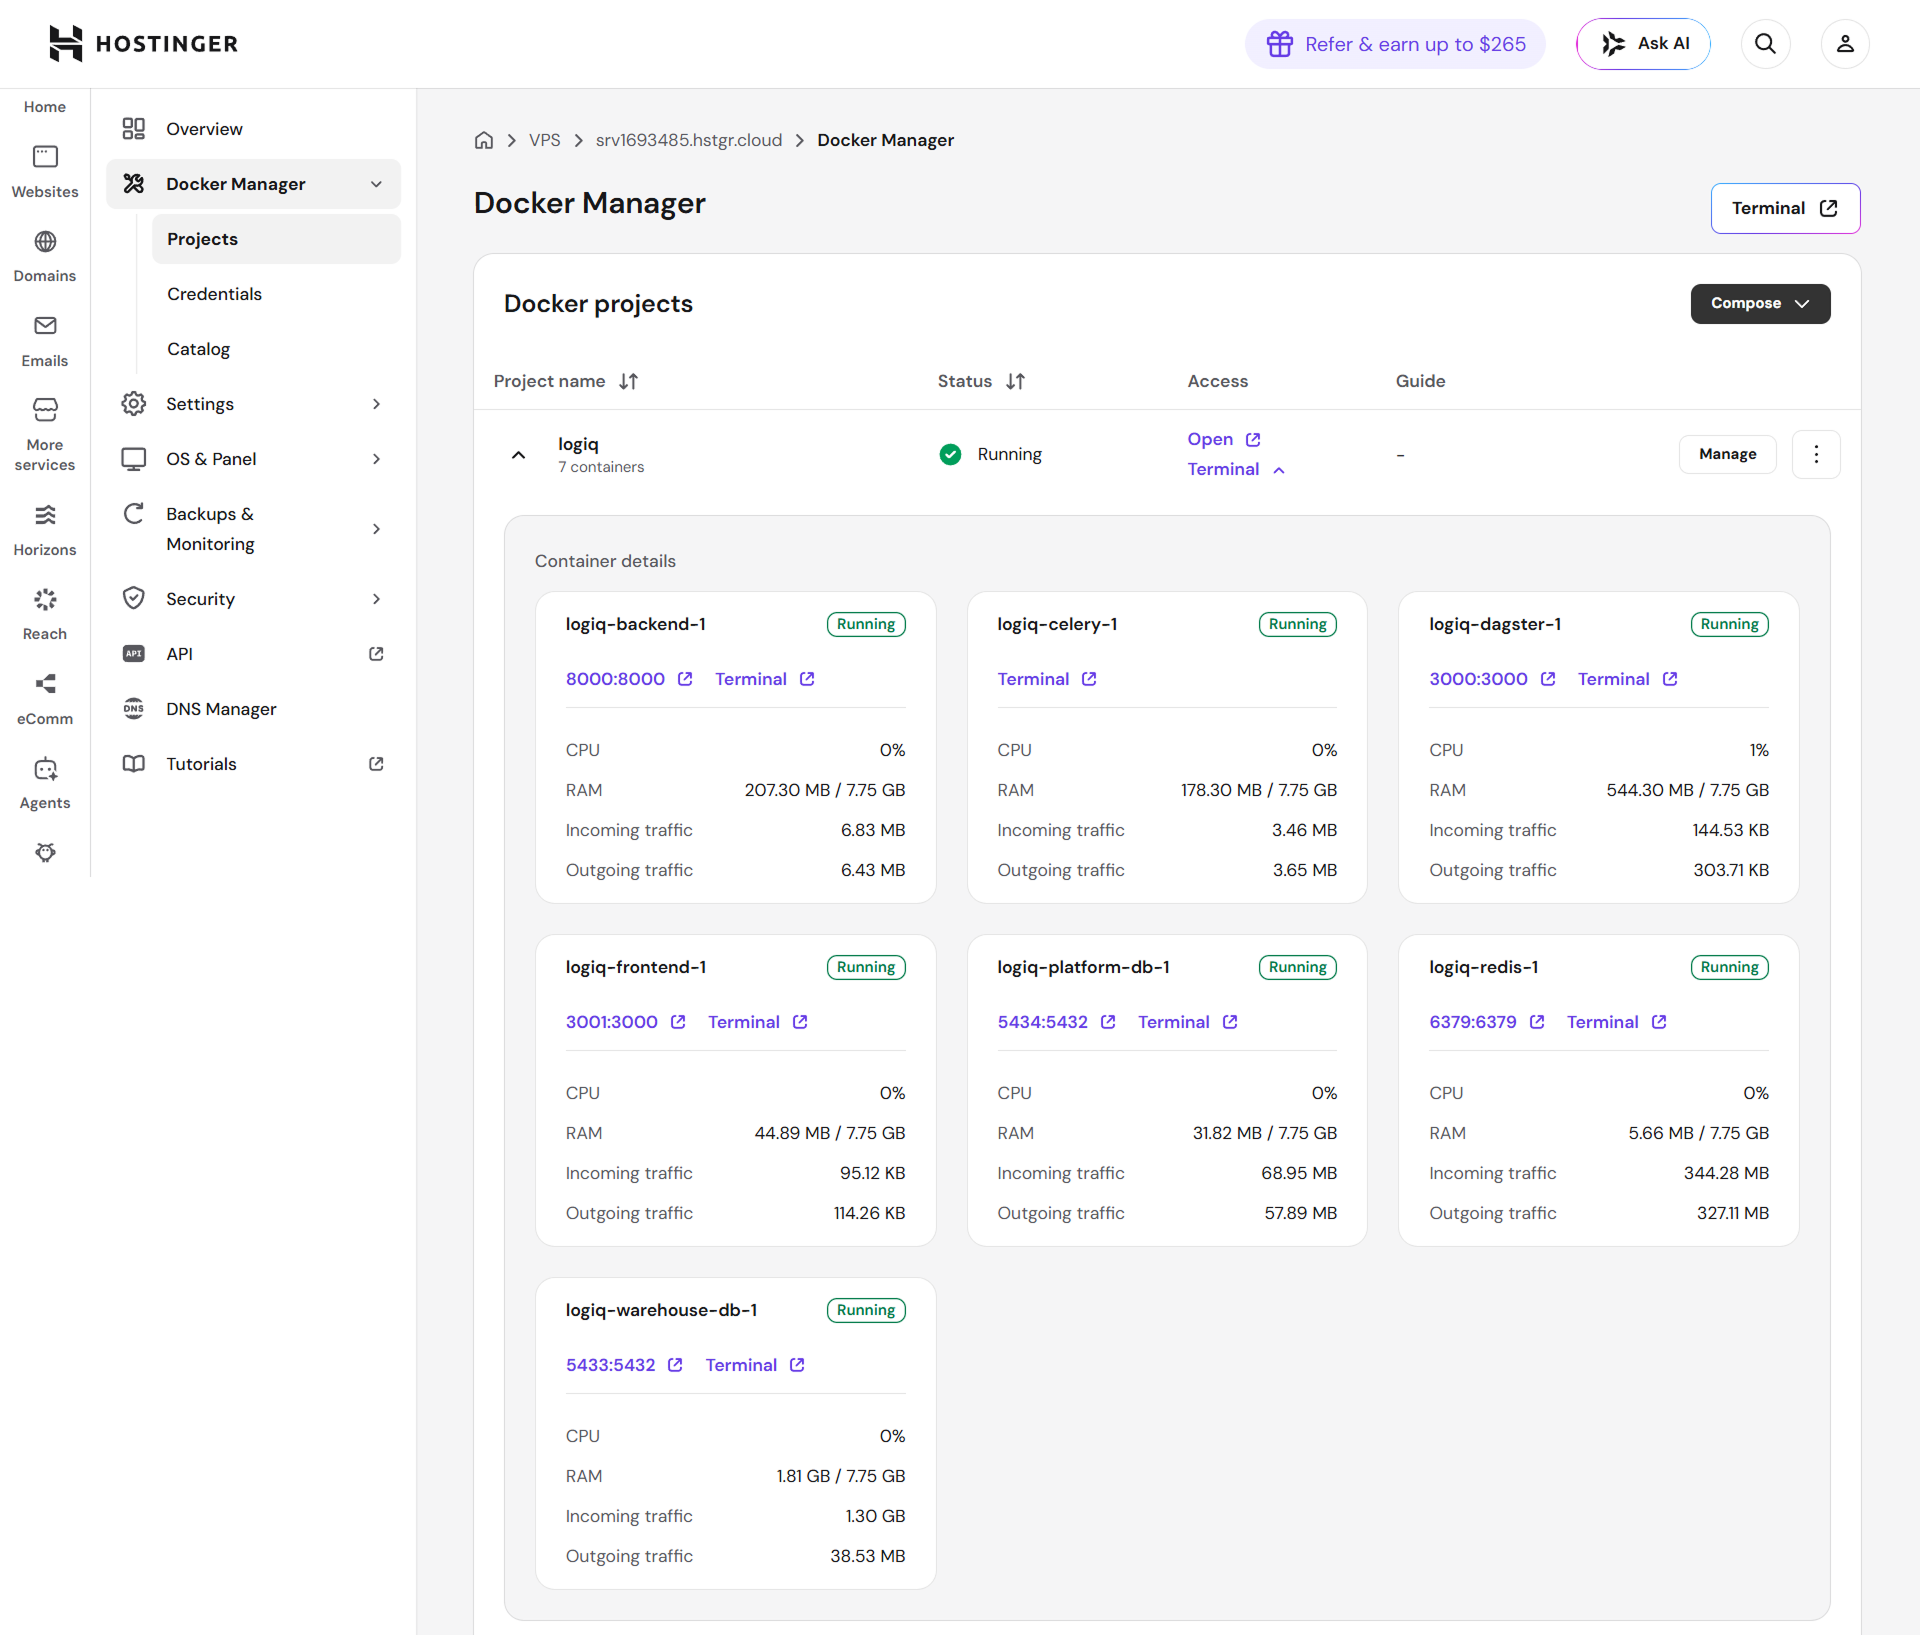
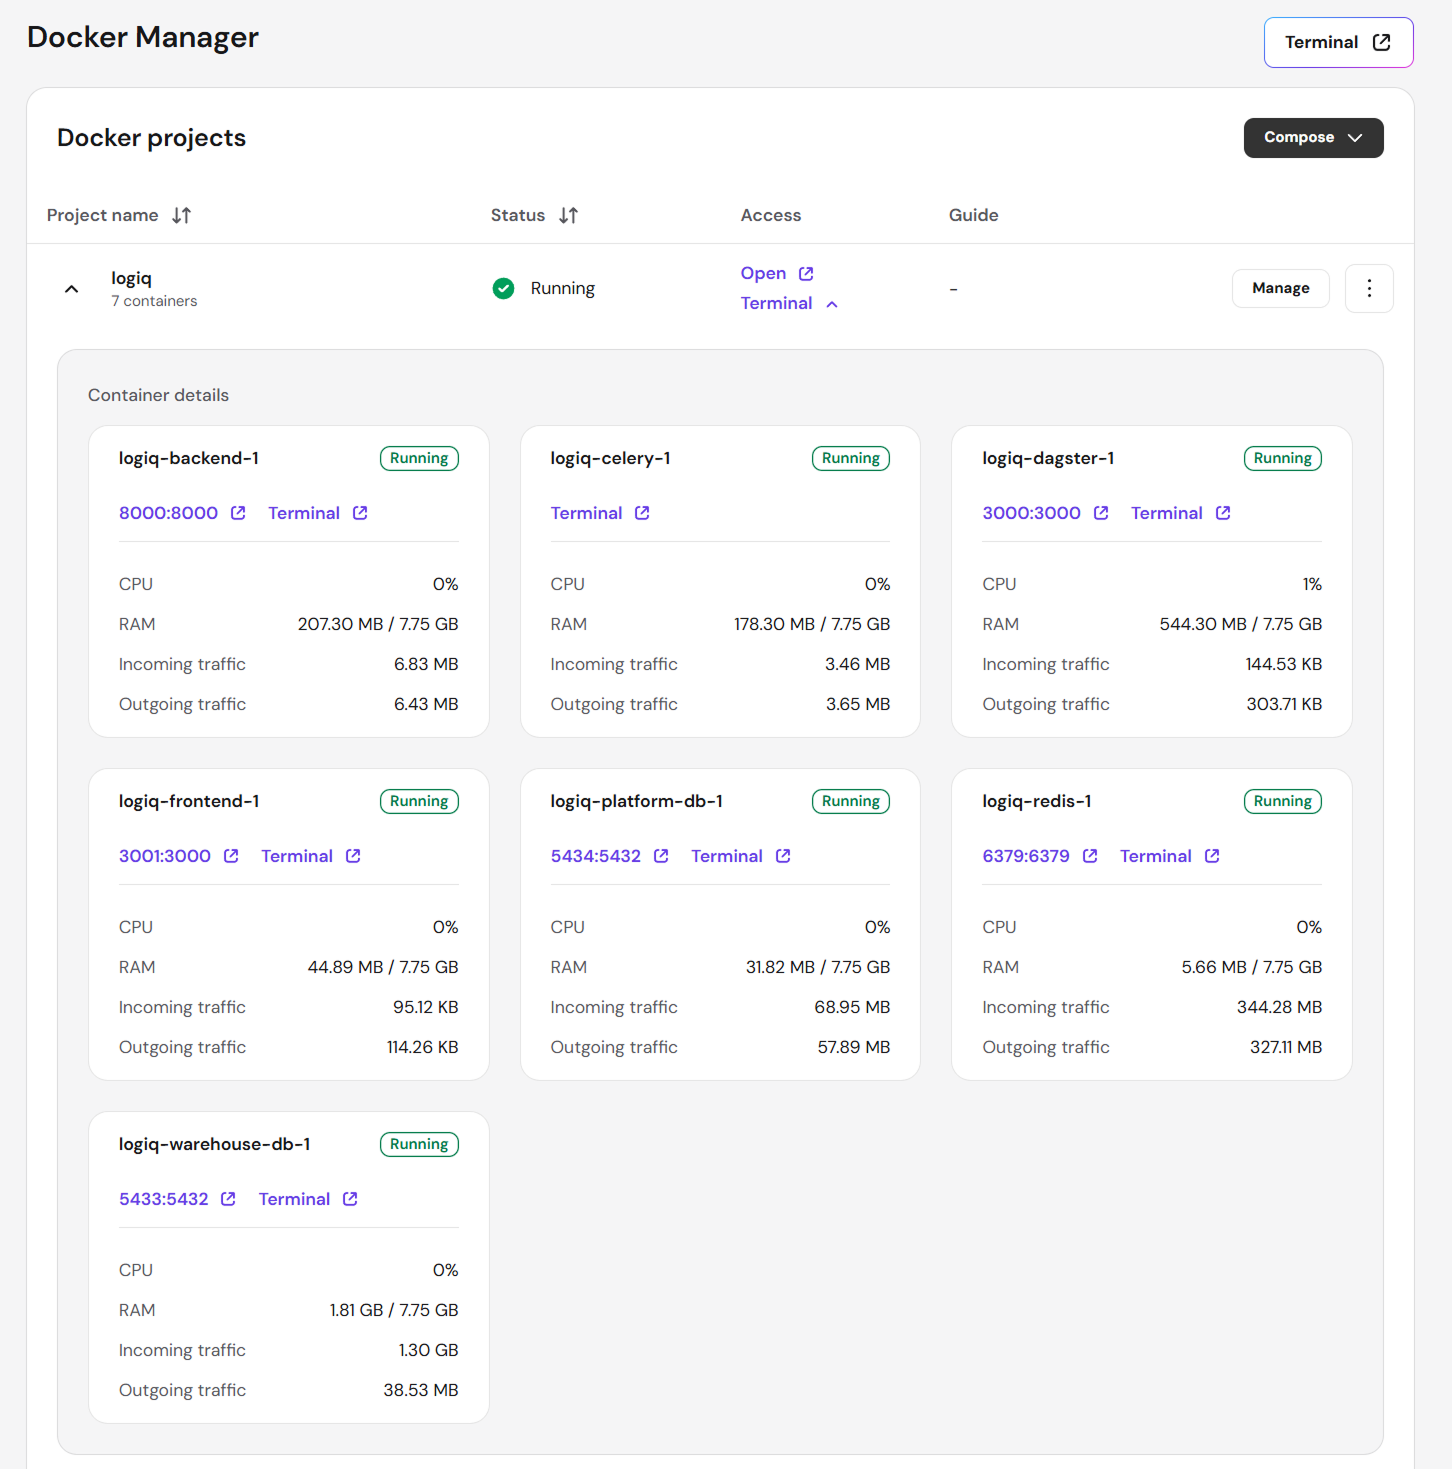
Update Chapter 5 with Hostinger deployment details and add new figures

diff --git a/mainmatter/part2/chapter5/chapter5.tex b/mainmatter/part2/chapter5/chapter5.tex
@@ -800,31 +800,81 @@ network. Database and pipeline state live on named volumes (not shown).}
 \subsection{Containerisation and Persistence}
 
 The stack is described by a single \textbf{Docker Compose} orchestration definition that declares every
-container, its configuration, and how the containers are wired together --- so the platform can be
-started, stopped, or rebuilt as one unit. State that must outlive a rebuild --- the two databases and
-the pipeline-run history --- is held on \textbf{named volumes}, so redeploying the application never
-loses data.
+container --- the two databases, Redis, the backend, the Celery worker, the Dagster orchestrator, and the
+frontend --- their configuration, and how they are wired together, so the platform can be started,
+stopped, or rebuilt as one unit. The simulated source systems of Chapter~6 run as a \emph{separate}
+Compose stack on the same shared network. State that must outlive a rebuild --- the two databases and the
+Dagster run history --- is held on \textbf{named volumes}, so redeploying never loses data.
 
 % -----------------------------------------------------------------------------
 \subsection{Reverse Proxy, TLS, and Network Isolation}
 
-An \textbf{Nginx} reverse proxy fronts the stack: it routes public sub-domains to the appropriate
-internal container and terminates \textbf{HTTPS}, with certificates issued and \emph{automatically
-renewed} by \textbf{Let's Encrypt}. The security posture is deliberately tight --- \emph{only} the
-proxy's web port is exposed to the outside, while every other container (databases, ETL, worker, and
-even the application servers) sits on a \textbf{private internal network}, unreachable directly from the
-internet. This realises the encrypted-transport and isolation requirements of \S\ref{sec:ch4-security}
-(TS11).
+An \textbf{Nginx} reverse proxy fronts the stack: it routes each public sub-domain to the appropriate
+internal container and terminates \textbf{HTTPS}, with a single multi-domain certificate issued and
+\emph{automatically renewed} by \textbf{Let's Encrypt}. It also carries the long-lived event stream that
+delivers \textbf{real-time notifications} to the interface (\S\ref{sec:ch5-alerting}). The security
+posture is deliberately tight: a host firewall leaves \emph{only} the web ports (80/443) open, and every
+other container --- the two databases, Redis, the ETL orchestrator, the worker, and even the application
+servers --- sits on a \textbf{private internal Docker network}, unreachable directly from the internet.
+This realises the encrypted-transport and isolation requirements of \S\ref{sec:ch4-security} (TS11).
 
 % -----------------------------------------------------------------------------
-\subsection{Topology and Automation}
+\subsection{Hosting Environment}
 
-The complete stack is designed to run on a \textbf{single modest virtual private server} ---
-demonstrating that a full Business Intelligence platform can be delivered cost-effectively, without a
-fleet of machines (TS19). Once deployed, it runs \textbf{without routine manual intervention}: the ETL
-executes on its schedule (\S\ref{sec:ch5-data}), the TLS certificates renew themselves, and the
-containers restart automatically on failure or reboot. The platform therefore not only \emph{works} but
-keeps working, which is what makes it a deliverable system rather than a prototype.
+For testing and demonstration the platform is hosted on a \textbf{single Hostinger VPS} --- a modest
+\emph{KVM~2} instance (2~vCPU, 8~GB RAM, 100~GB disk) running \textbf{Ubuntu~24.04 LTS} --- which alone
+runs the entire stack, confirming that a full Business Intelligence platform can be delivered
+cost-effectively, without a fleet of machines (TS19). It is served from the domain \texttt{logiq.space},
+with one sub-domain per externally reachable service (Table~\ref{tab:ch5-urls});
+Figure~\ref{fig:ch5-hostinger} shows the VPS and its running containers in the Hostinger console.
+
+\emph{This Hostinger deployment is temporary} --- it exists only to test and demonstrate the platform.
+The \textbf{production deployment will be provisioned, and costed, by the company}.
+
+% [VISUAL-IMPLEMENT] public service URLs
+\begin{table}[H]
+\centering
+\renewcommand{\arraystretch}{1.35}
+\rowcolors{2}{white}{tblrowalt}
+\begin{tabularx}{\linewidth}{|>{\raggedright\arraybackslash}p{5.2cm}|>{\raggedright\arraybackslash}X|}
+\hline
+\rowcolor{tblheader}
+\textcolor{white}{\textbf{Service}} & \textcolor{white}{\textbf{Public URL}} \\
+\hline
+Dashboard (frontend) & \texttt{https://logiq.space} \\
+Backend REST API & \texttt{https://api.logiq.space} \\
+ETL orchestrator (Dagster) & \texttt{https://dagster.logiq.space} \\
+Simulated sources (test only) & \texttt{https://mock.logiq.space} \\
+\hline
+\end{tabularx}
+\caption{The publicly reachable services and their sub-domains; every other container stays on the
+private internal network. The simulated-sources host belongs to the Chapter~6 test environment.}
+\label{tab:ch5-urls}
+\end{table}
+
+% [VISUAL-PLACEHOLDER] (provided) Hostinger console — VPS overview and container manager
+\begin{figure}[H]
+\centering
+\begin{subfigure}[t]{0.49\linewidth}
+  \centering\includegraphics[width=\linewidth]{hostinger_vps_overview}
+  \caption{VPS overview}
+\end{subfigure}\hfill
+\begin{subfigure}[t]{0.49\linewidth}
+  \centering\includegraphics[width=\linewidth]{hostinger_docker_manager}
+  \caption{Container manager}
+\end{subfigure}
+\caption{The deployment on a single Hostinger VPS: the server overview and the running containers, as
+seen in the Hostinger console.}
+\label{fig:ch5-hostinger}
+\end{figure}
+
+% -----------------------------------------------------------------------------
+\subsection{Automation}
+
+Once deployed, the platform runs \textbf{without routine manual intervention}: the ETL executes on its
+schedule (\S\ref{sec:ch5-data}), the TLS certificates renew themselves, and the containers restart
+automatically on failure or reboot. The platform therefore not only \emph{works} but keeps working,
+which is what makes it a deliverable system rather than a prototype.
 
 % ═════════════════════════════════════════════════════════════════════════════
 \section*{Conclusion}
@@ -833,11 +883,11 @@ keeps working, which is what makes it a deliverable system rather than a prototy
 This chapter turned the conceptual blueprint of Chapter~4 into a working system. Building on a stack of
 \textbf{open-source, free} components, it realised each design block in turn: a \textbf{warehouse} of
 four layers in PostgreSQL fed by a \textbf{Dagster} pipeline whose assets are the warehouse tables; a
-\textbf{backend} on Django and DRF that routes analytics to the warehouse and everything else to the
-operational store; a \textbf{Celery} alerting service that evaluates rules off the request path and fans
-notifications out to each user's chosen channels; a \textbf{Next.js} dashboard organised by the two axes
-and their three views; and a fully \textbf{containerised} deployment that runs the whole stack behind a
-reverse proxy on a single, modest server.
+\textbf{backend} on Django and DRF that routes queries across the operational and analytical databases
+and provisions its users from HR Force; a \textbf{Celery} service that evaluates alert rules off the
+request path and delivers notifications --- in-app and by e-mail --- to each user's chosen channels; a
+multilingual \textbf{Next.js} dashboard organised by the two axes and their three views; and a fully
+\textbf{containerised} deployment that runs the whole stack behind a reverse proxy on a single VPS.
 
 Two threads run through the realisation. It is \emph{cost-effective and reproducible} --- no licensing
 cost, one orchestration definition, one-command bring-up on commodity infrastructure --- and it is

diff --git a/main.tex b/main.tex
@@ -11,6 +11,14 @@
 \input{config/settings}
 \input{config/commands}
 
+% ── Fast draft builds ─────────────────────────────────────────────────────────
+% Typeset ONLY the listed \include-d file(s); the rest are skipped but their
+% page numbers, TOC entries, and cross-references are still read from build/*.aux.
+% Run a FULL build once first (with this line commented out) so those .aux files
+% exist — otherwise refs to other chapters show as "??" and page numbers drift.
+% Comment this line out again for the final/full build.
+\includeonly{mainmatter/part2/chapter5/chapter5}
+
 % ============================================================
 \begin{document}
 

diff --git a/FIGURES_TODO.md b/FIGURES_TODO.md
@@ -27,6 +27,7 @@ Status legend: ☐ to do · ◐ in progress · ☑ done.
 | C5-P10 | Ch.5 §5.5 | PLACEHOLDER | Administration view (`fig:ch5-admin`) — overview, users, roles, ETL runs | Embedded `Admin_*.png` | ☑ |
 | C5-P11 | Ch.5 §5.4 | PLACEHOLDER | In-app notification centre (`fig:ch5-notif`) | Embedded `notification_alert/notification.png` | ☑ |
 | C5-P12 | Ch.5 §5.4 | PLACEHOLDER | E-mail notifications (`fig:ch5-emails`) — ETL-run e-mail + critical alert e-mail | Embedded `notification_alert/email_etl.png`, `email_alert_critic.png` | ☑ |
+| C5-P13 | Ch.5 §5.6 | PLACEHOLDER | Hostinger console (`fig:ch5-hostinger`) — VPS overview + container manager | Embedded `deployement/hostinger_vps_overview.png`, `hostinger_docker_manager.png` | ☑ |
 | C5-B1 | Annexe B | PLACEHOLDER | Frontend overflow — Transport Cost & Performance views, Admin user-detail panel | Embedded later from `figures/frontend/` (`BusinessUser_Transport_costs.png`, `BusinessUser_Transport_performance.png`, `Admin_user_panel.png`) | ☐ |
 | C6-P1 | Ch.6 §6.6 | PLACEHOLDER | Results screenshots — populated KPI page (`fig:ch6-result-kpi`) + alert firing (`fig:ch6-result-alert`) | screenshot the running platform | ☐ |
 | C5-L1 | Ch.5 §5.1 | FETCH | Technology-stack logos in `tab:ch5-stack` (one PNG per technology, rendered via `\techlogo`) | download official logos as PNG into `assets/logos/tech/` — exact filenames listed in that folder's `README.md`. Missing files render a subtle text stub, so the build is never broken | ☑ |
